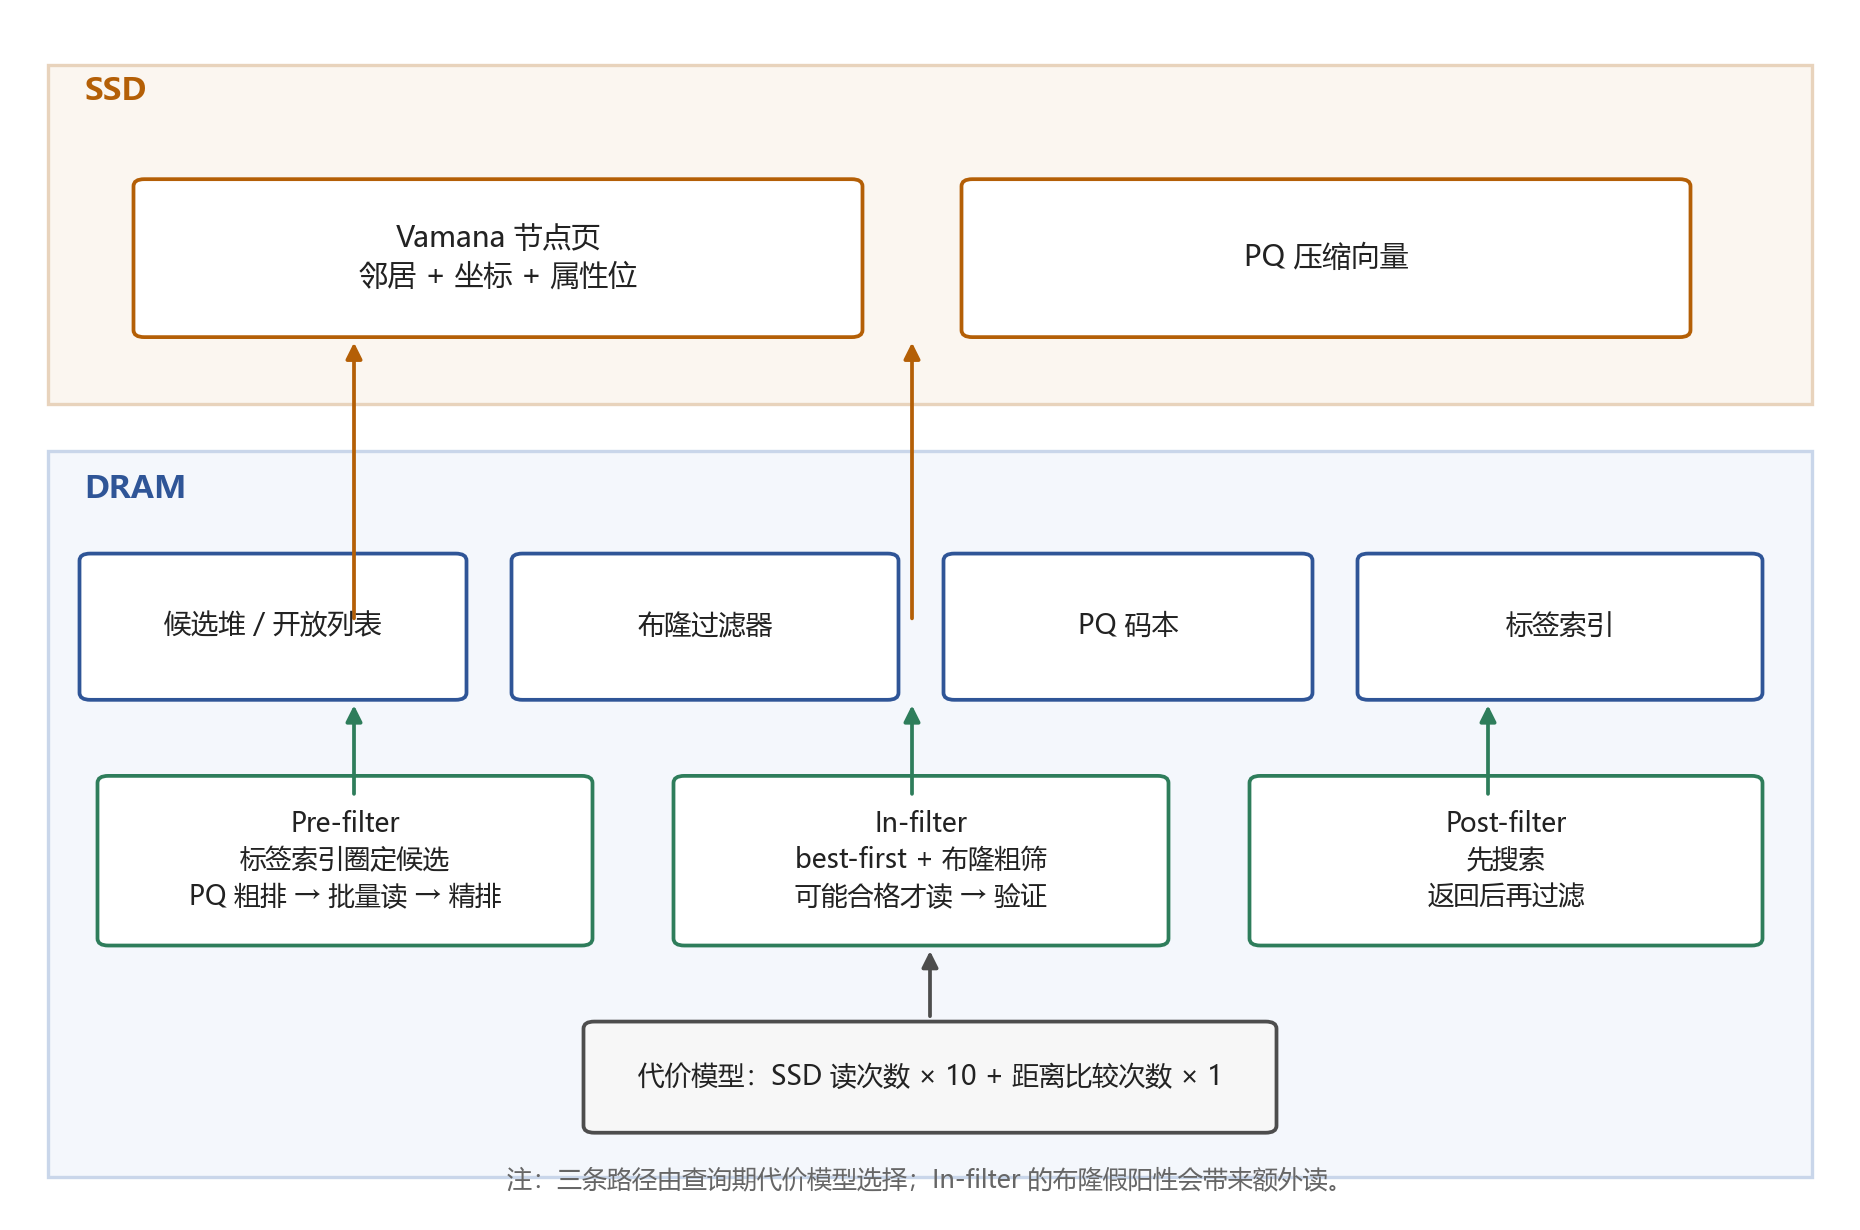
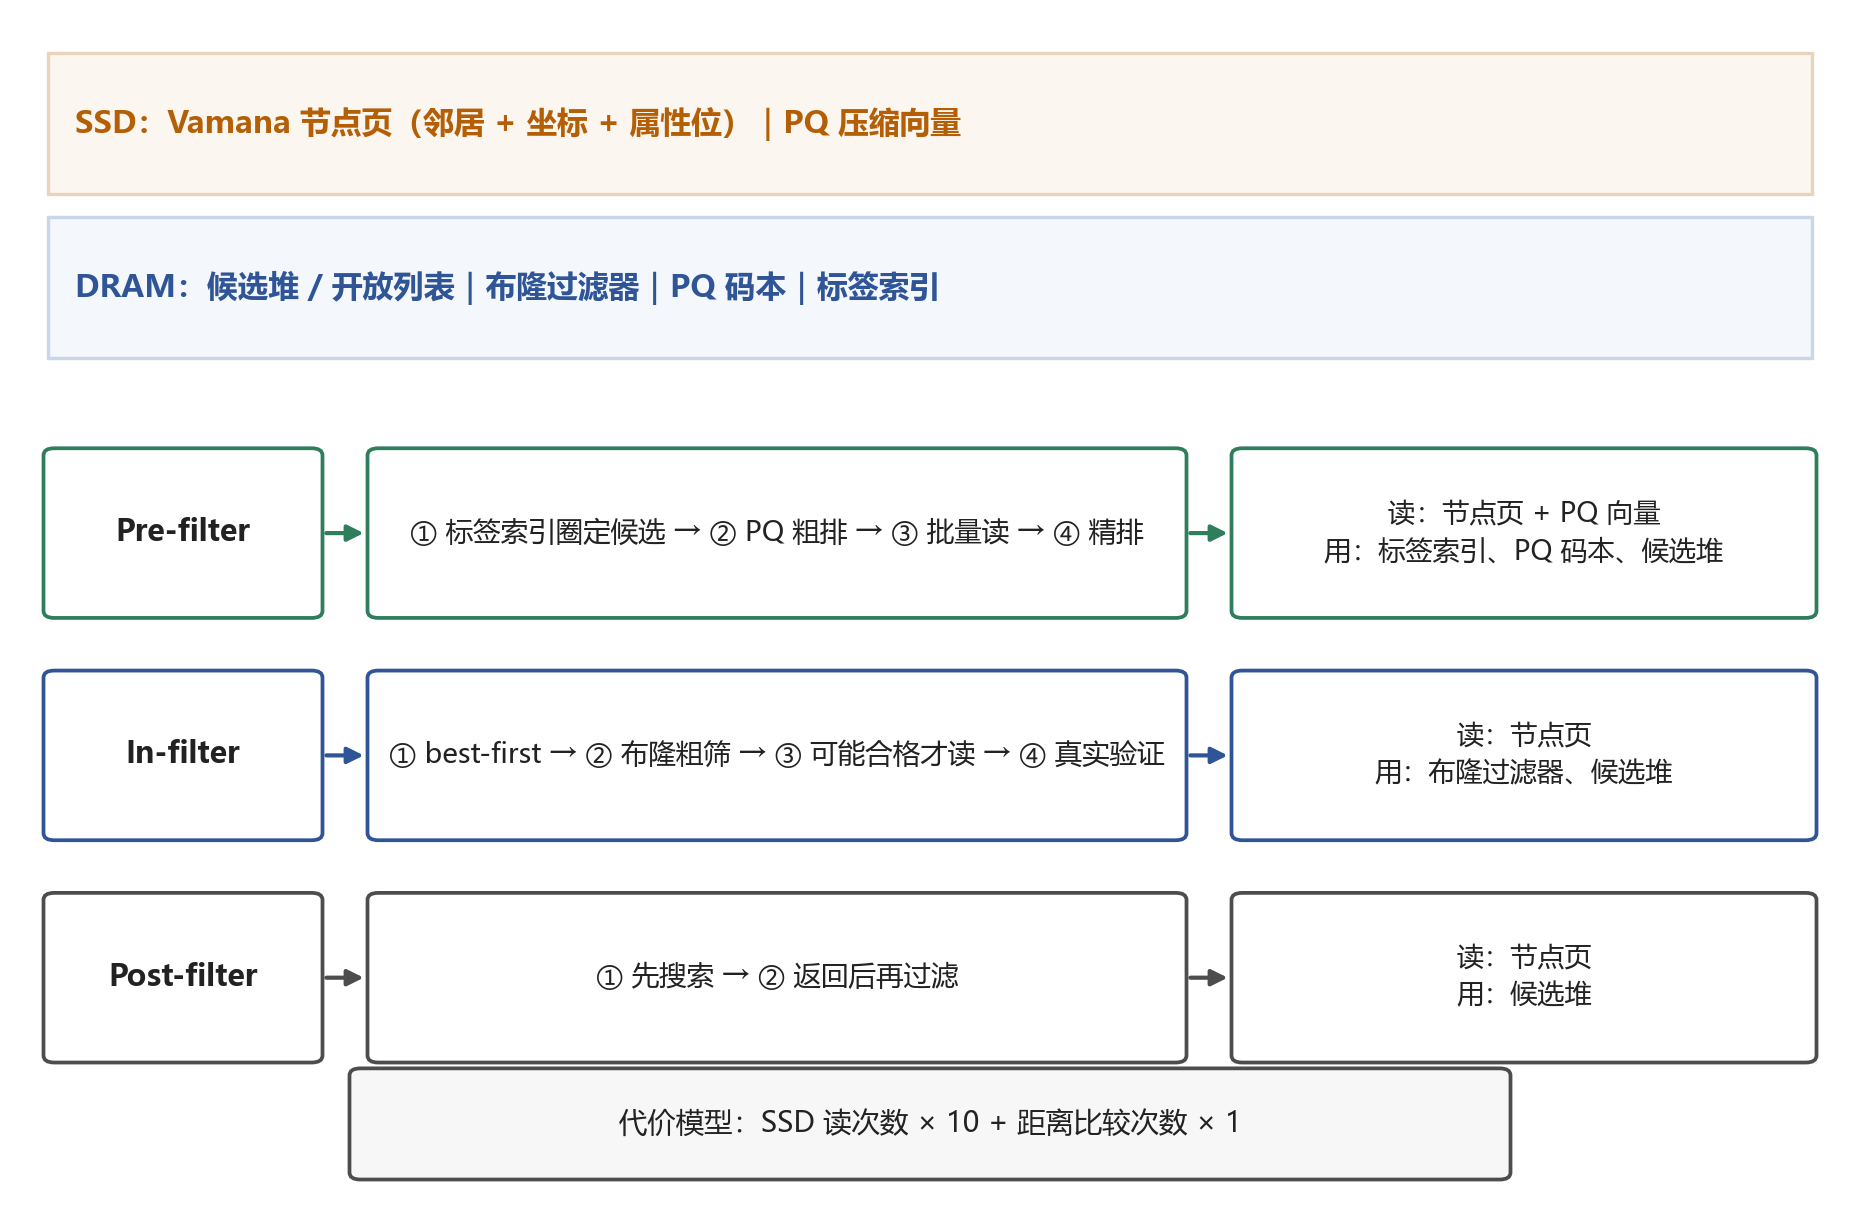
Add FVS course lab experiment code, data, figures and optimization reference

diff --git a/analysis/scripts/make_exp_figures.py b/analysis/scripts/make_exp_figures.py
@@ -81,29 +81,30 @@ plt.close()
 # ---------------- Fig 2-1 PipeANN-Filter
 fig, ax = plt.subplots(figsize=(6.3, 4.2))
 ax.set_xlim(0, 100); ax.set_ylim(0, 100); ax.axis("off")
-ax.add_patch(Rectangle((1, 68), 98, 29, facecolor="#FBF6F0", edgecolor="#E8D3BC", linewidth=0.8))
-ax.add_patch(Rectangle((1, 2), 98, 62, facecolor="#F4F7FC", edgecolor="#C9D6EA", linewidth=0.8))
-ax.text(3, 94, "SSD", fontsize=7.5, color=ORANGE, fontweight="bold")
-ax.text(3, 60, "DRAM", fontsize=7.5, color=BLUE, fontweight="bold")
-box(ax, 6, 74, 40, 13, "Vamana 节点页\n邻居 + 坐标 + 属性位", "white", ORANGE, fs=6.9)
-box(ax, 52, 74, 40, 13, "PQ 压缩向量", "white", ORANGE, fs=6.9)
-box(ax, 3, 43, 21, 12, "候选堆 / 开放列表", "white", BLUE, fs=6.5)
-box(ax, 27, 43, 21, 12, "布隆过滤器", "white", BLUE, fs=6.5)
-box(ax, 51, 43, 20, 12, "PQ 码本", "white", BLUE, fs=6.5)
-box(ax, 74, 43, 22, 12, "标签索引", "white", BLUE, fs=6.5)
 
-box(ax, 4, 22, 27, 14, "Pre-filter\n标签索引圈定候选\nPQ 粗排 → 批量读 → 精排", "white", GREEN, fs=6.3)
-box(ax, 36, 22, 27, 14, "In-filter\nbest-first + 布隆粗筛\n可能合格才读 → 验证", "white", GREEN, fs=6.3)
-box(ax, 68, 22, 28, 14, "Post-filter\n先搜索\n返回后再过滤", "white", GREEN, fs=6.3)
-box(ax, 31, 6, 38, 9, "代价模型：SSD 读次数 × 10 + 距离比较次数 × 1", "#F7F7F7", GRAY, fs=6.4)
-arrow(ax, 50, 6 + 9, 50, 22, color=GRAY, lw=0.9)
-arrow(ax, 18, 34, 18, 43, color=GREEN, lw=0.9)
-arrow(ax, 49, 34, 49, 43, color=GREEN, lw=0.9)
-arrow(ax, 81, 34, 81, 43, color=GREEN, lw=0.9)
-arrow(ax, 18, 49, 18, 74, color=ORANGE, lw=0.9)
-arrow(ax, 49, 49, 49, 74, color=ORANGE, lw=0.9)
-ax.text(50, 1.0, "注：三条路径由查询期代价模型选择；In-filter 的布隆假阳性会带来额外读。",
-        ha="center", fontsize=6.0, color="#666666")
+# storage summary
+ax.add_patch(Rectangle((1, 86), 98, 12, facecolor="#FBF6F0", edgecolor="#E8D3BC", linewidth=0.8))
+ax.text(2.5, 92, "SSD：Vamana 节点页（邻居 + 坐标 + 属性位）｜PQ 压缩向量", fontsize=7.4, va="center", color=ORANGE, fontweight="bold")
+ax.add_patch(Rectangle((1, 72), 98, 12, facecolor="#F4F7FC", edgecolor="#C9D6EA", linewidth=0.8))
+ax.text(2.5, 78, "DRAM：候选堆 / 开放列表｜布隆过滤器｜PQ 码本｜标签索引", fontsize=7.4, va="center", color=BLUE, fontweight="bold")
+
+rows = [
+    ("Pre-filter", "① 标签索引圈定候选 → ② PQ 粗排 → ③ 批量读 → ④ 精排",
+     "读：节点页 + PQ 向量\n用：标签索引、PQ 码本、候选堆", GREEN),
+    ("In-filter", "① best-first → ② 布隆粗筛 → ③ 可能合格才读 → ④ 真实验证",
+     "读：节点页\n用：布隆过滤器、候选堆", BLUE),
+    ("Post-filter", "① 先搜索 → ② 返回后再过滤",
+     "读：节点页\n用：候选堆", GRAY),
+]
+for i, (name, process, data, color) in enumerate(rows):
+    y = 50 - i * 19
+    box(ax, 1, y, 15, 14, name, "white", color, fs=7.2, bold=True)
+    box(ax, 19, y, 45, 14, process, "white", color, fs=6.6)
+    box(ax, 67, y, 32, 14, data, "white", color, fs=6.5)
+    arrow(ax, 16, y + 7, 19, y + 7, color=color, lw=1.0)
+    arrow(ax, 64, y + 7, 67, y + 7, color=color, lw=1.0)
+
+box(ax, 18, 2, 64, 9, "代价模型：SSD 读次数 × 10 + 距离比较次数 × 1", "#F7F7F7", GRAY, fs=6.8)
 plt.tight_layout()
 plt.savefig(os.path.join(OUT, "fig_pipeann.png"), dpi=300, bbox_inches="tight")
 plt.close()
